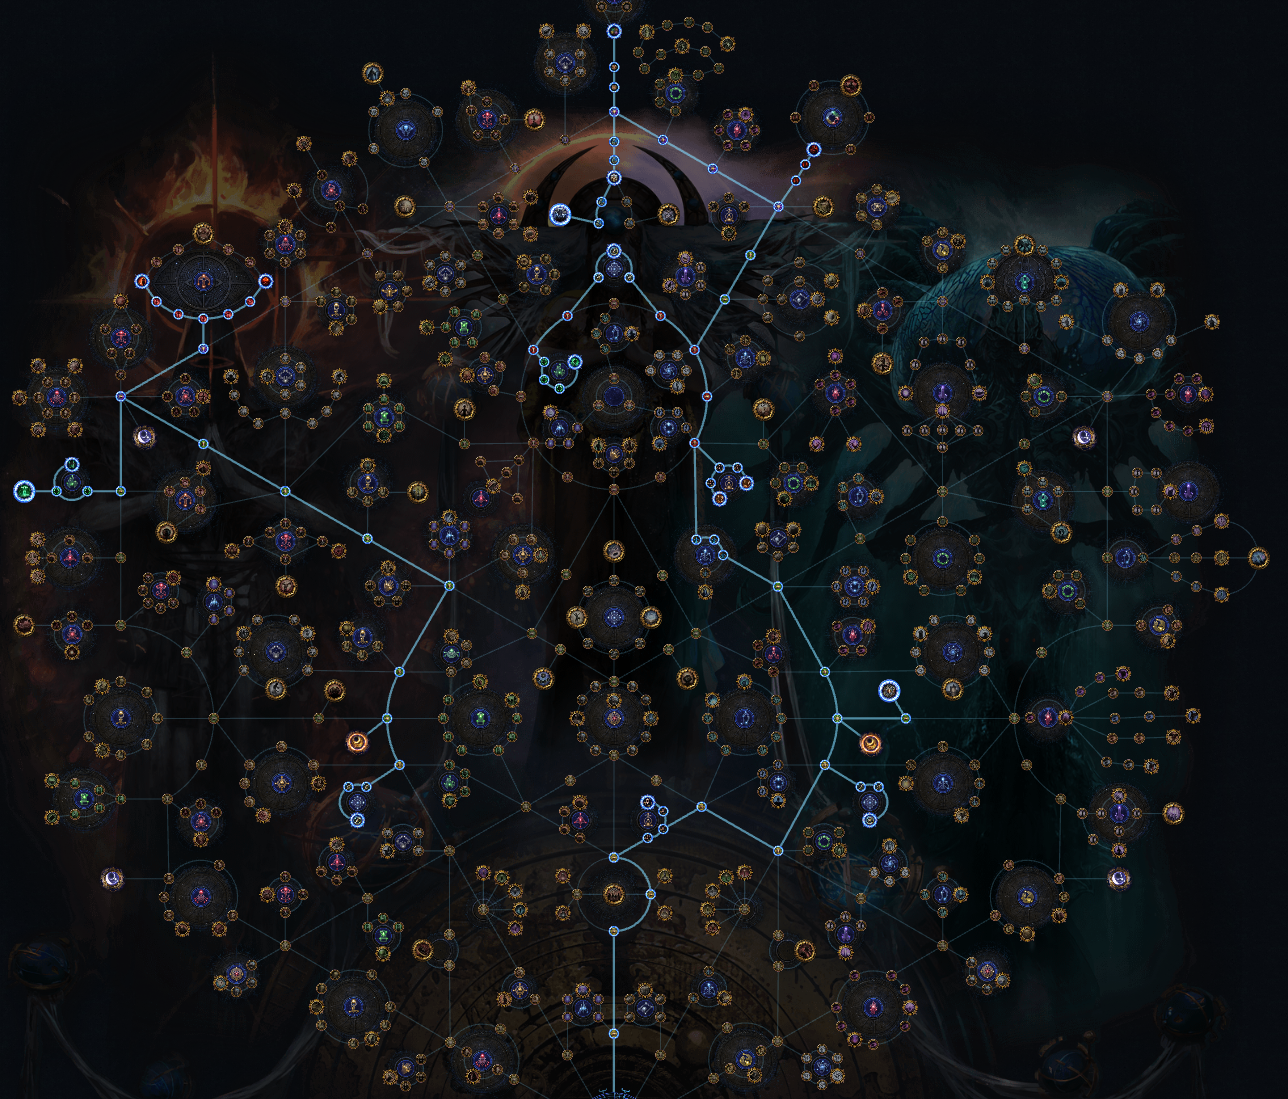
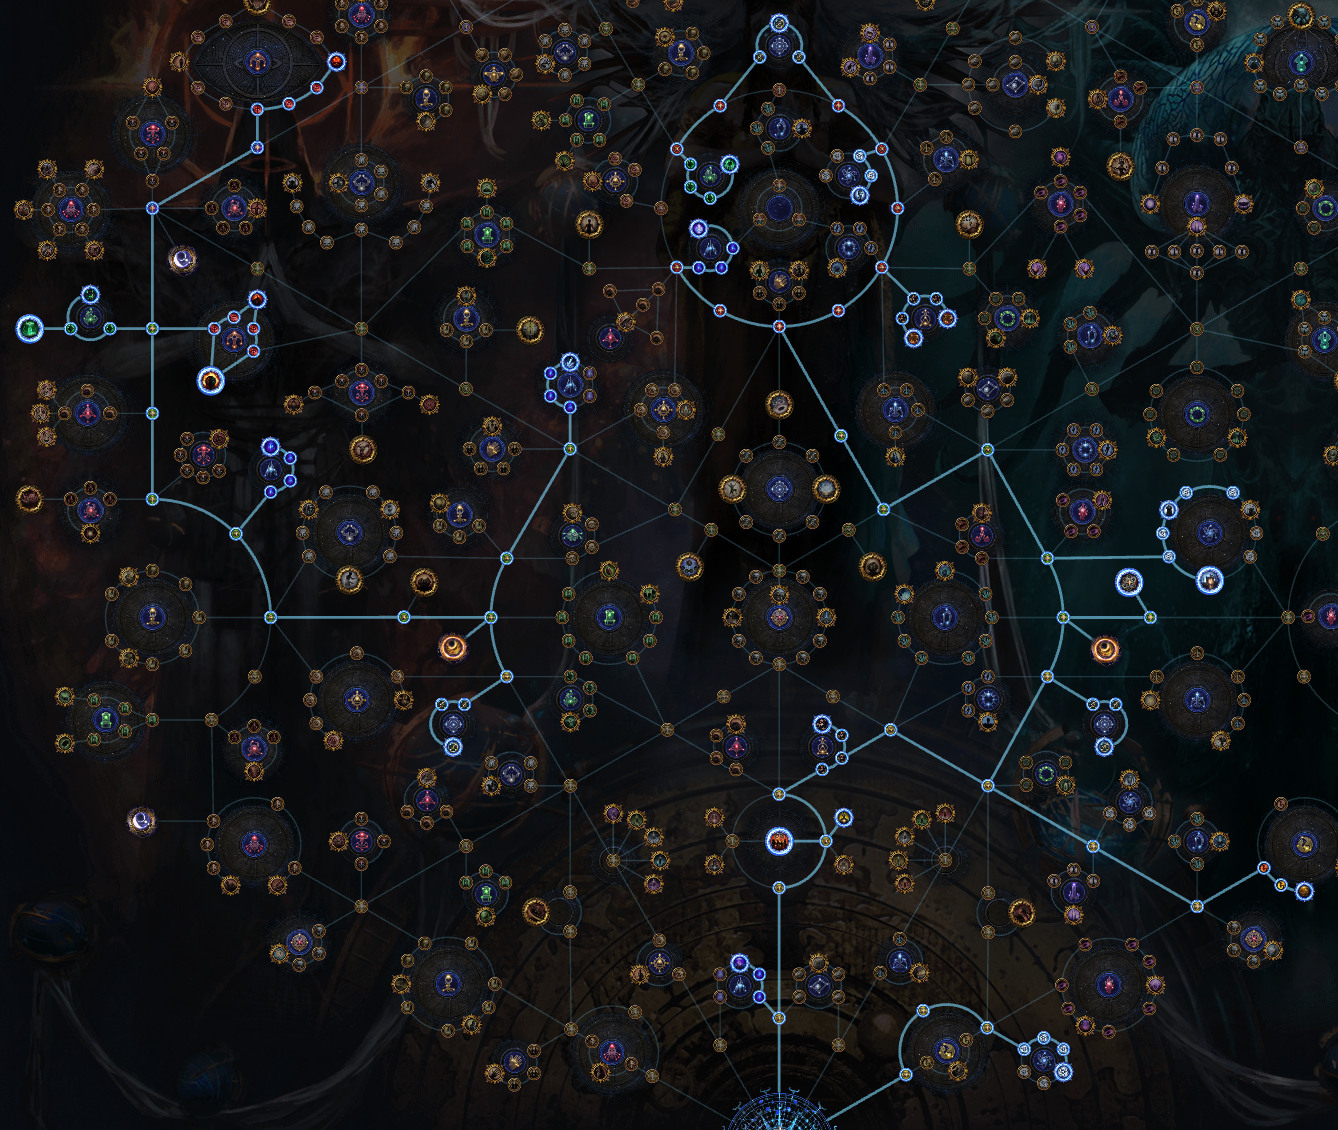
added new pages and content

diff --git a/trees.html b/trees.html
@@ -1,5 +1,5 @@
 <!doctype html>
-<html xmlns="http://www.w3.org/1999/html" xmlns="http://www.w3.org/1999/html">
+<html xmlns="http://www.w3.org/1999/html" xmlns="http://www.w3.org/1999/html" xmlns="http://www.w3.org/1999/html">
 <head>
 	<meta http-equiv="Content-type" content="text/html; charset=utf-8">
 	<meta http-equiv="X-UA-Compatible" content="IE=Edge">
@@ -50,7 +50,10 @@
 	<section>
 		<p class="aside-menu">
 		<p><redgem>"!tal d|gen|eec|non|o bl|s ac"</redgem></p></p>
-		<p><a href="https://poeplanner.com/a/Ag3" target="_blank" style="text-decoration:none;"><redgem>Step 1 - Basic Tree</redgem></a></p>
+		<p><a href="https://poeplanner.com/a/AM5" target="_blank" style="text-decoration:none;"><redgem>Step 1 - Basic Tree</redgem></a></br>
+		Expedition, Essences and June are optional</br>
+			Torments, Exarch and Essences are at the end
+		</p>
 		<p><img src="images/atlas_start.png" style="height: 880px"></p><br>
 		<p><a href="https://poeplanner.com/a/Apx" target="_blank" style="text-decoration:none"><redgem>Step 2 - Legion + Beyond (MF)</redgem></a></p>
 		<p><strong>Scarab:</strong></br>
